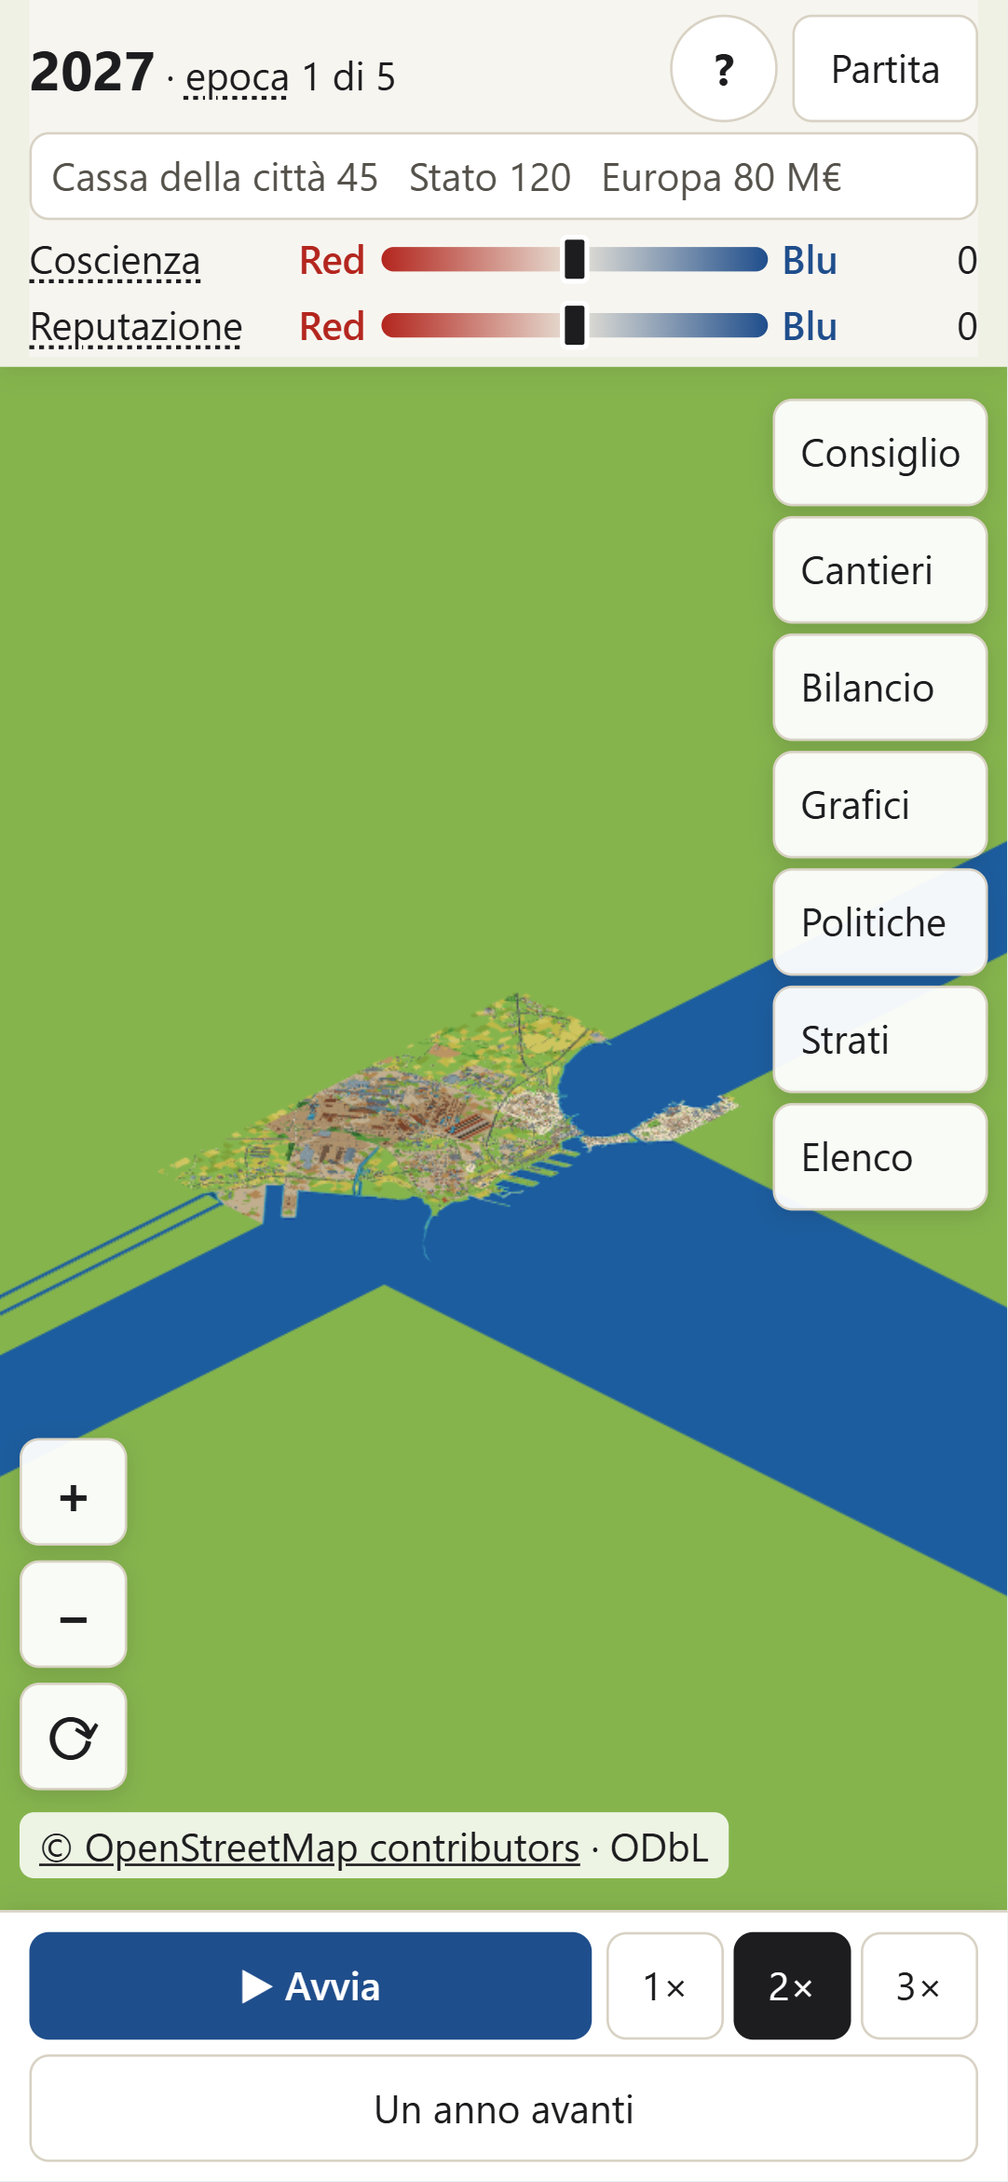
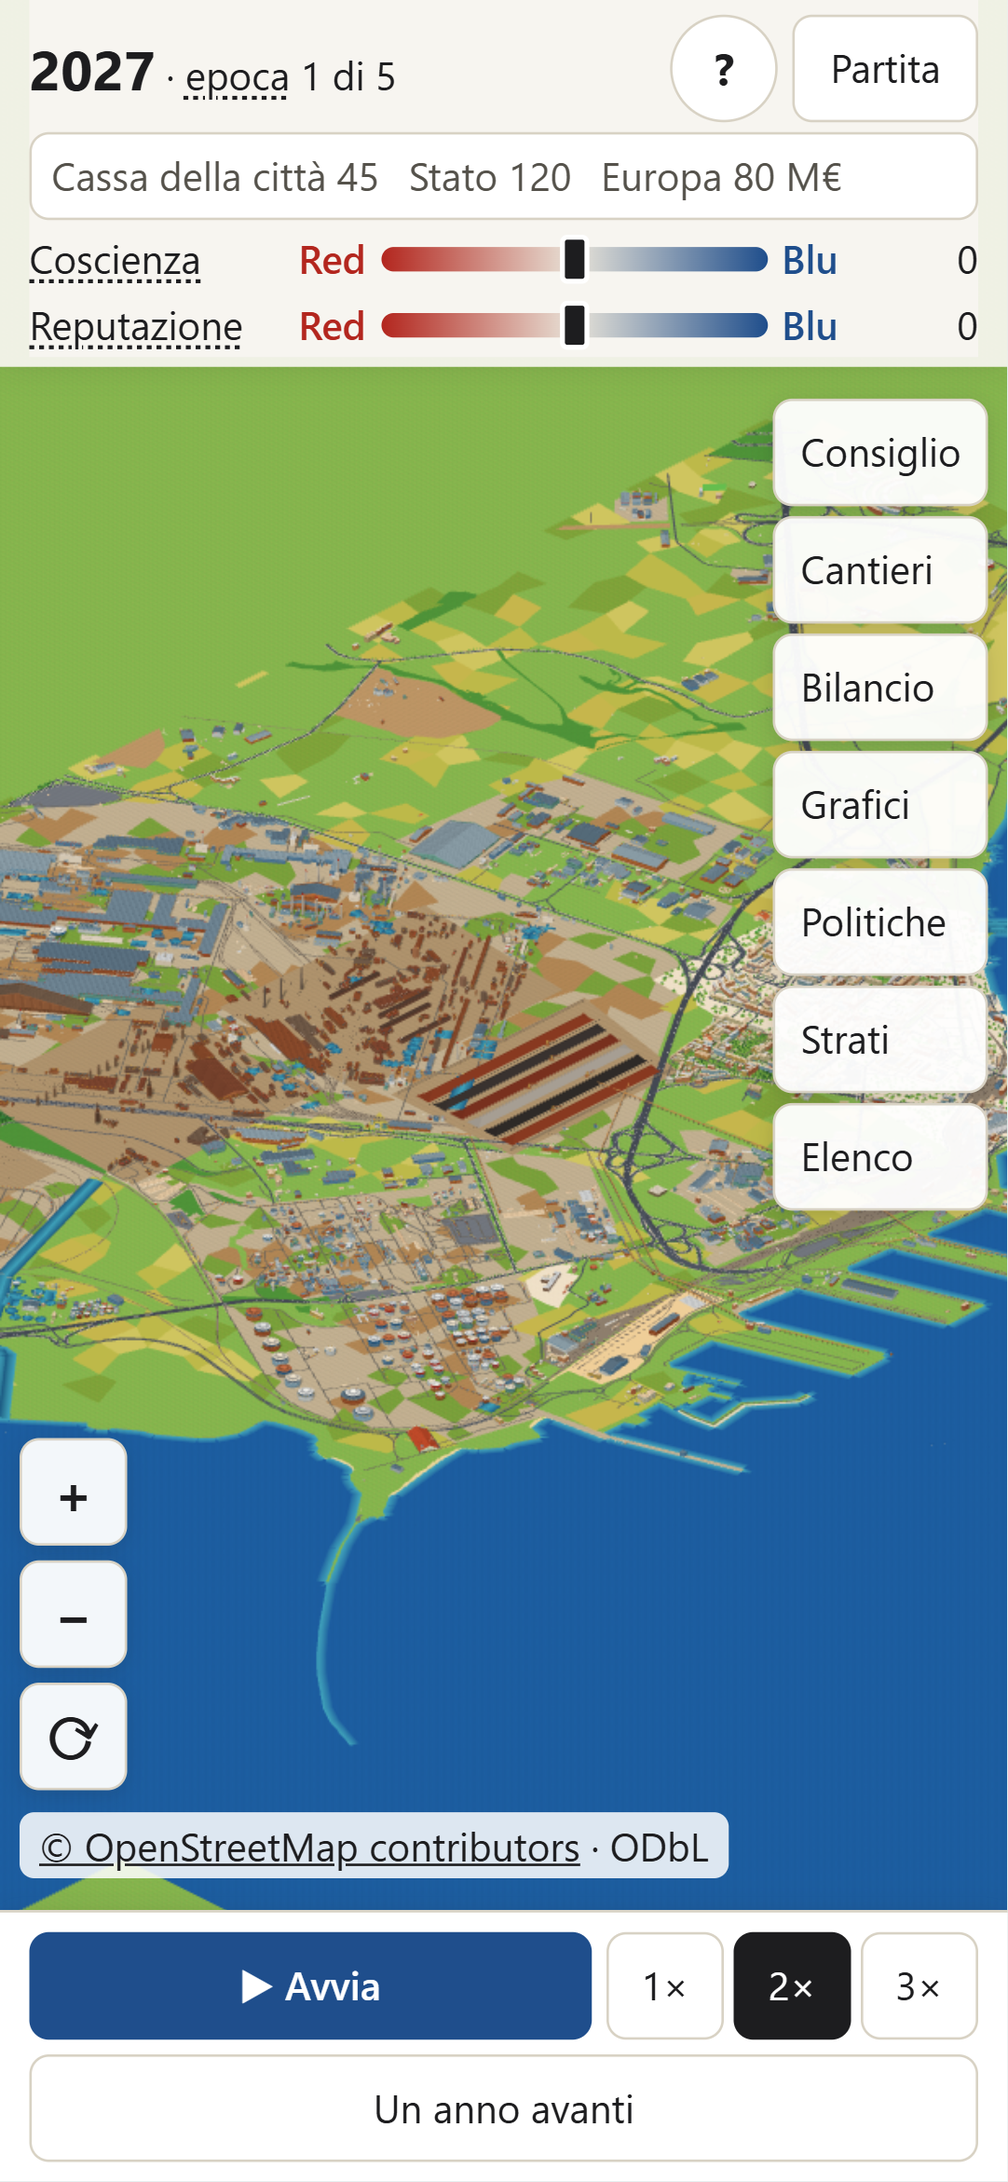
T12e: correzione dopo la revisione, la zona riempie l'area libera sul telefono
Sul telefono in verticale la distanza massima è quella a cui la zona
riempie in larghezza l'area libera e ne copre almeno il 70% (calcolo
geometrico); sugli schermi larghi la zona entra tutta, come prima.
Prove nella vista e nel browser (copertura misurata dal DOM), schermate
del primo invio rinominate t12e-primo-invio-*, nuove t12e-dopo-*.

diff --git a/apps/game/scripts/verifica.ts b/apps/game/scripts/verifica.ts
@@ -38,6 +38,7 @@ import { chromium, type Browser, type Page } from 'playwright-core';
 import { transformWithEsbuild } from 'vite';
 import { BERSAGLIO, RECENTI, SOSTITUITE } from '../src/bersaglio.js';
 import { TAVOLOZZA } from '../src/iso/aspetto.js';
+import { COPERTURA_MINIMA, copertura } from '../src/iso/vista.js';
 
 // VERIFICA_APP permette di misurare un'altra copia del gioco (per esempio una versione precedente, per confronto).
 const appDir = process.env['VERIFICA_APP'] ?? join(dirname(fileURLToPath(import.meta.url)), '..');
@@ -1189,11 +1190,16 @@ async function schermateDistanzaMassima(browser: Browser, prefisso: 'prima' | 'd
   for (const s of SCHERMI_T12E) {
     const { page, close } = await apriSchermo(browser, s);
     for (let o = 0; o < 4; o++) {
-      await page.evaluate((oo) => {
-        const p = window.taranto2127Plastico!;
-        p.imposta(1e-4, oo);
-        p.guarda(0, 0, 1e-4);
-      }, o);
+      await page.evaluate(
+        ([oo, centra]) => {
+          const p = window.taranto2127Plastico!;
+          p.imposta(1e-4, oo);
+          // Il centro della zona al centro dell'area libera (la copia di prima non ha questa sonda).
+          if (centra) p.spingi([0, 0], 0, 0);
+          else p.guarda(0, 0, 1e-4);
+        },
+        [o, prefisso === 'dopo'] as const,
+      );
       await page.waitForTimeout(1200);
       await page.screenshot({ path: join(schermateRamo, `t12e-${prefisso}-distanza-massima-o${o + 1}-${s.nome}.png`) });
     }
@@ -1233,15 +1239,33 @@ async function controlliT12e(browser: Browser): Promise<void> {
       const r = await page.evaluate((oo) => {
         const p = window.taranto2127Plastico!;
         p.imposta(1e-4, oo);
-        p.guarda(0, 0, 1e-4);
+        p.spingi([0, 0], 0, 0);
         return p.areaLibera();
       }, o);
-      const fuori = r.vertici.filter((v) => v.x < r.area.left - tol || v.x > r.area.right + tol || v.y < r.area.top - tol || v.y > r.area.bottom + tol);
-      if (fuori.length > 0) fail(`${s.nome}, orientamento ${o + 1}, distanza massima: ${fuori.length} vertici della zona fuori dall'area libera ${JSON.stringify(r.area)}: ${JSON.stringify(fuori)}`);
-      // Controllo indipendente dal gioco: nessun vertice sotto un comando misurato nel DOM, nessuno fuori dalla tela.
-      const nascosti = r.vertici.filter((v) => !visibileSullaMappa(v, dom));
-      if (nascosti.length > 0) fail(`${s.nome}, orientamento ${o + 1}, distanza massima: ${nascosti.length} vertici della zona sotto un comando o fuori dalla tela: ${JSON.stringify(nascosti)}`);
-      if (o === 0) misura(`${s.nome}: area libera ${Math.round(r.area.left)}-${Math.round(r.area.right)} × ${Math.round(r.area.top)}-${Math.round(r.area.bottom)} px su ${s.width}×${s.height}; distanza massima ${r.ppmMinimo.toFixed(3)} px/m (era 0,3)`);
+      // Area libera misurata dal DOM, non quella del gioco: tela meno i comandi.
+      const libera = {
+        left: Math.max(0, ...dom.comandi.filter((c) => c.x1 - c.x0 < dom.tela.w / 2 && c.x0 < dom.tela.w / 2).map((c) => c.x1)),
+        right: Math.min(dom.tela.w, ...dom.comandi.filter((c) => c.x1 - c.x0 < dom.tela.w / 2 && c.x0 >= dom.tela.w / 2).map((c) => c.x0)),
+        top: Math.max(0, ...dom.comandi.filter((c) => c.x1 - c.x0 >= dom.tela.w / 2 && c.y0 < dom.tela.h / 2).map((c) => c.y1)),
+        bottom: Math.min(dom.tela.h, ...dom.comandi.filter((c) => c.x1 - c.x0 >= dom.tela.w / 2 && c.y0 >= dom.tela.h / 2).map((c) => c.y0)),
+      };
+      const verticale = libera.bottom - libera.top > libera.right - libera.left;
+      if (verticale) {
+        // Telefono in verticale (correzione dopo la revisione): la zona riempie in larghezza e copre almeno il 70% dell'area libera.
+        const xs = r.vertici.map((v) => v.x);
+        const largo = Math.max(...xs) - Math.min(...xs);
+        const quota = copertura(r.vertici.map((v) => [v.x, v.y] as [number, number]), libera);
+        if (largo < libera.right - libera.left - tol) fail(`${s.nome}, orientamento ${o + 1}, distanza massima: la zona non riempie in larghezza l'area libera (${Math.round(largo)} contro ${Math.round(libera.right - libera.left)} px)`);
+        if (quota < COPERTURA_MINIMA) fail(`${s.nome}, orientamento ${o + 1}, distanza massima: solo il ${(quota * 100).toFixed(0)}% dell'area libera è sopra la zona (almeno 70%)`);
+        if (o === 0) misura(`${s.nome}: area libera ${Math.round(libera.left)}-${Math.round(libera.right)} × ${Math.round(libera.top)}-${Math.round(libera.bottom)} px su ${s.width}×${s.height}; distanza massima ${r.ppmMinimo.toFixed(3)} px/m (era 0,3; nel primo invio circa 0,02): la zona è larga ${Math.round(largo)} px e copre il ${(quota * 100).toFixed(0)}% dell'area libera`);
+      } else {
+        // Schermo largo: la zona entra tutta, e nessun vertice sta sotto un comando misurato nel DOM.
+        const fuori = r.vertici.filter((v) => v.x < r.area.left - tol || v.x > r.area.right + tol || v.y < r.area.top - tol || v.y > r.area.bottom + tol);
+        if (fuori.length > 0) fail(`${s.nome}, orientamento ${o + 1}, distanza massima: ${fuori.length} vertici della zona fuori dall'area libera ${JSON.stringify(r.area)}: ${JSON.stringify(fuori)}`);
+        const nascosti = r.vertici.filter((v) => !visibileSullaMappa(v, dom));
+        if (nascosti.length > 0) fail(`${s.nome}, orientamento ${o + 1}, distanza massima: ${nascosti.length} vertici della zona sotto un comando o fuori dalla tela: ${JSON.stringify(nascosti)}`);
+        if (o === 0) misura(`${s.nome}: area libera ${Math.round(libera.left)}-${Math.round(libera.right)} × ${Math.round(libera.top)}-${Math.round(libera.bottom)} px; distanza massima ${r.ppmMinimo.toFixed(3)} px/m: la zona entra tutta`);
+      }
       // Spingendo verso ciascun bordo, il vertice di quel lato si porta nell'area libera.
       for (const ppm of [0.3, 1, 3]) {
         for (const [dx, dy, lato] of [
@@ -1283,7 +1307,7 @@ async function controlliT12e(browser: Browser): Promise<void> {
         }
       }
     }
-    misura(`${s.nome}: alla distanza massima i quattro vertici nell'area libera nei quattro orientamenti; ${spinte} spinte verso i bordi, ogni vertice portato nell'area libera`);
+    misura(`${s.nome}: distanza massima a posto nei quattro orientamenti; ${spinte} spinte verso i bordi, ogni vertice portato nell'area libera`);
     // L'area libera si ricalcola quando una finestra si apre e si chiude.
     const chiusa = (await page.evaluate(() => window.taranto2127Plastico!.areaLibera())).area;
     await openPanel(page, 'elenco');

diff --git a/apps/game/src/iso/vista.ts b/apps/game/src/iso/vista.ts
@@ -12,8 +12,9 @@
  *   portare dentro l'area libera, e non oltre: quando un estremo della zona arriva al bordo
  *   dell'area libera la vista si ferma. Se la zona è più piccola dell'area libera, resta al
  *   centro dell'area libera.
- * - Alla distanza massima l'intera zona entra nell'area libera, in ogni orientamento e a
- *   ogni larghezza (ingrandimento minimo calcolato, non fisso).
+ * - Distanza massima calcolata, non fissa (correzione di T12e decisa da Michele): sul
+ *   telefono in verticale la zona riempie in larghezza l'area libera e almeno il 70%
+ *   dell'area libera cade sopra la zona; sugli schermi larghi la zona entra tutta.
  */
 import * as THREE from 'three';
 import type { Pt } from '../plastico/data.js';
@@ -120,6 +121,98 @@ export function ppmPerTutta(azimut: number, lim: Limiti, area: Area): number {
   return RESPIRO * Math.min(largo / (a1 - a0), alto / ((b1 - b0) * Math.sin(ELEVAZIONE)));
 }
 
+/** Quota dell'area libera che, alla distanza massima sul telefono in verticale, deve cadere sopra la zona. */
+export const COPERTURA_MINIMA = 0.7;
+/** Il calcolo cerca un po' di più, perché la prova non stia sul filo (centraggio e arrotondamenti). */
+const COPERTURA_CERCATA = 0.74;
+
+/** Area di un poligono (formula di Gauss), in valore assoluto. */
+function areaPoligono(p: Pt[]): number {
+  let s = 0;
+  for (let i = 0; i < p.length; i++) {
+    const [x1, y1] = p[i]!;
+    const [x2, y2] = p[(i + 1) % p.length]!;
+    s += x1 * y2 - x2 * y1;
+  }
+  return Math.abs(s) / 2;
+}
+
+/** Ritaglia un poligono convesso con un rettangolo (Sutherland-Hodgman). */
+export function ritaglia(poligono: Pt[], r: Area): Pt[] {
+  let out = poligono;
+  const lati: [(p: Pt) => boolean, (a: Pt, b: Pt) => Pt][] = [
+    [(p) => p[0] >= r.left, (a, b) => [r.left, a[1] + ((b[1] - a[1]) * (r.left - a[0])) / (b[0] - a[0])]],
+    [(p) => p[0] <= r.right, (a, b) => [r.right, a[1] + ((b[1] - a[1]) * (r.right - a[0])) / (b[0] - a[0])]],
+    [(p) => p[1] >= r.top, (a, b) => [a[0] + ((b[0] - a[0]) * (r.top - a[1])) / (b[1] - a[1]), r.top]],
+    [(p) => p[1] <= r.bottom, (a, b) => [a[0] + ((b[0] - a[0]) * (r.bottom - a[1])) / (b[1] - a[1]), r.bottom]],
+  ];
+  for (const [dentro, taglio] of lati) {
+    const prima = out;
+    out = [];
+    for (let i = 0; i < prima.length; i++) {
+      const a = prima[i]!;
+      const b = prima[(i + 1) % prima.length]!;
+      if (dentro(b)) {
+        if (!dentro(a)) out.push(taglio(a, b));
+        out.push(b);
+      } else if (dentro(a)) out.push(taglio(a, b));
+    }
+    if (out.length === 0) return [];
+  }
+  return out;
+}
+
+/** Quota di un rettangolo dello schermo che cade sopra un poligono dello schermo (0-1). */
+export function copertura(poligono: Pt[], r: Area): number {
+  const tot = Math.max(1e-9, (r.right - r.left) * (r.bottom - r.top));
+  return areaPoligono(ritaglia(poligono, r)) / tot;
+}
+
+/** Quota dell'area libera sopra la zona, con il centro della zona al centro dell'area libera. */
+export function coperturaCentrata(ppm: number, azimut: number, lim: Limiti, area: Area): number {
+  const { destra, avanti, a0, a1, b0, b1 } = estremi(azimut, lim);
+  const am = (a0 + a1) / 2;
+  const bm = (b0 + b1) / 2;
+  const mx = (area.left + area.right) / 2;
+  const my = (area.top + area.bottom) / 2;
+  const kv = ppm * Math.sin(ELEVAZIONE);
+  const poligono: Pt[] = [
+    [lim.minX, lim.minY],
+    [lim.maxX, lim.minY],
+    [lim.maxX, lim.maxY],
+    [lim.minX, lim.maxY],
+  ].map(([x, y]) => {
+    const a = x! * destra[0] + y! * destra[1];
+    const b = x! * avanti[0] + y! * avanti[1];
+    return [mx + (a - am) * ppm, my - (b - bm) * kv] as Pt;
+  });
+  return copertura(poligono, area);
+}
+
+/**
+ * Distanza massima (T12e, correzione decisa da Michele). Se l'area libera è più alta che
+ * larga (telefono in verticale): l'ingrandimento più piccolo a cui la zona riempie in
+ * larghezza l'area libera e almeno il 70% dell'area libera cade sopra la zona. Altrimenti
+ * (computer, telefono in orizzontale): quello a cui la zona entra tutta, con il 4% d'aria.
+ */
+export function ppmDistanzaMassima(azimut: number, lim: Limiti, area: Area): number {
+  const largo = area.right - area.left;
+  const alto = area.bottom - area.top;
+  if (alto <= largo) return ppmPerTutta(azimut, lim, area);
+  const { a0, a1 } = estremi(azimut, lim);
+  let basso = largo / (a1 - a0); // la zona riempie in larghezza
+  if (coperturaCentrata(basso, azimut, lim, area) >= COPERTURA_CERCATA) return basso;
+  let altoPpm = basso;
+  while (coperturaCentrata(altoPpm, azimut, lim, area) < COPERTURA_CERCATA && altoPpm < PPM_MAX) altoPpm *= 2;
+  // Ricerca per bisezione: la copertura cresce con l'ingrandimento.
+  for (let i = 0; i < 40; i++) {
+    const m = (basso + altoPpm) / 2;
+    if (coperturaCentrata(m, azimut, lim, area) >= COPERTURA_CERCATA) altoPpm = m;
+    else basso = m;
+  }
+  return altoPpm;
+}
+
 /**
  * Centro ammesso: ogni punto della zona si può portare dentro l'area libera, e la vista si
  * ferma quando un estremo della zona arriva al bordo dell'area libera. Su un asse in cui la
@@ -199,9 +292,9 @@ export class Vista {
     this.dimensioni(this.w, this.h);
   }
 
-  /** Ingrandimento minimo: la zona intera entra nell'area libera (al più PPM_MIN). */
+  /** Ingrandimento minimo (distanza massima): vedi ppmDistanzaMassima; al più PPM_MIN. */
   ppmMinimo(azimut = this.meta.azimut): number {
-    return Math.min(PPM_MIN, ppmPerTutta(azimut, this.limiti, this.libera));
+    return Math.min(PPM_MIN, ppmDistanzaMassima(azimut, this.limiti, this.libera));
   }
 
   private limita(): void {

diff --git a/apps/game/src/iso/vista.test.ts b/apps/game/src/iso/vista.test.ts
@@ -6,7 +6,7 @@
 import * as THREE from 'three';
 import { describe, expect, it } from 'vitest';
 import type { Pt } from '../plastico/data.js';
-import { AZIMUT_BASE, ELEVAZIONE, MARGINE_PX, PPM_MAX, PPM_MIN, Vista, fattore, type Area, type Limiti } from './vista.js';
+import { AZIMUT_BASE, COPERTURA_MINIMA, ELEVAZIONE, MARGINE_PX, PPM_MAX, PPM_MIN, Vista, copertura, coperturaCentrata, fattore, type Area, type Limiti } from './vista.js';
 
 const LIM: Limiti = { minX: -5000, maxX: 5000, minY: -3200, maxY: 3200 };
 const gradi = (r: number) => (r * 180) / Math.PI;
@@ -100,8 +100,8 @@ describe('vista della città isometrica', () => {
   ];
   const dentro = (s: { x: number; y: number }, a: Area, tol = 1e-6) => s.x >= a.left - tol && s.x <= a.right + tol && s.y >= a.top - tol && s.y <= a.bottom + tol;
 
-  it('alla distanza massima la zona intera entra nell\'area libera, a ogni larghezza e in ogni orientamento', () => {
-    for (const sc of SCHERMI) {
+  it('schermi larghi: alla distanza massima la zona intera entra nell\'area libera, in ogni orientamento', () => {
+    for (const sc of SCHERMI.filter((x) => x.area.bottom - x.area.top <= x.area.right - x.area.left)) {
       for (let o = 0; o < 4; o++) {
         const v = new Vista([1234, -567], 1, LIM);
         v.dimensioni(sc.w, sc.h);
@@ -111,10 +111,44 @@ describe('vista della città isometrica', () => {
         v.ingrandisci(1e-6, sc.w / 2, sc.h / 2, true);
         assesta(v);
         expect(v.ora.ppm, sc.nome).toBeCloseTo(v.ppmMinimo(), 9);
-        expect(v.ppmMinimo(), sc.nome).toBeLessThanOrEqual(PPM_MIN);
         for (const p of VERTICI) expect(dentro(v.aSchermo(p), sc.area), `${sc.nome} o${o} vertice ${p.join(',')}`).toBe(true);
       }
     }
+  });
+
+  it('telefono in verticale: alla distanza massima la zona riempie in larghezza e copre almeno il 70% dell\'area libera', () => {
+    const telefoni = SCHERMI.filter((x) => x.area.bottom - x.area.top > x.area.right - x.area.left);
+    expect(telefoni.length).toBe(3);
+    for (const sc of telefoni) {
+      for (let o = 0; o < 4; o++) {
+        const v = new Vista([1234, -567], 1, LIM);
+        v.dimensioni(sc.w, sc.h);
+        v.impostaAreaLibera(sc.area);
+        for (let k = 0; k < o; k++) v.ruota(1);
+        assesta(v);
+        v.ingrandisci(1e-6, sc.w / 2, sc.h / 2, true);
+        assesta(v);
+        const a = v.libera;
+        // Il centro della zona al centro dell'area libera.
+        v.porta([(LIM.minX + LIM.maxX) / 2, (LIM.minY + LIM.maxY) / 2], (a.left + a.right) / 2, (a.top + a.bottom) / 2);
+        const s = VERTICI.map((p) => v.aSchermo(p));
+        const xs = s.map((q) => q.x);
+        const msg = `${sc.nome} o${o}`;
+        expect(Math.max(...xs) - Math.min(...xs), `${msg}: ingombro in larghezza`).toBeGreaterThanOrEqual(a.right - a.left - 1e-6);
+        expect(copertura(s.map((q) => [q.x, q.y] as Pt), a), `${msg}: copertura`).toBeGreaterThanOrEqual(COPERTURA_MINIMA);
+        // Non più vicino del necessario: un po' più lontano la copertura scende sotto quella cercata.
+        expect(coperturaCentrata(v.ora.ppm * 0.9, v.ora.azimut, LIM, a), msg).toBeLessThan(0.74);
+      }
+    }
+  });
+
+  it('la copertura geometrica è giusta su casi noti', () => {
+    const r: Area = { left: 0, top: 0, right: 10, bottom: 10 };
+    expect(copertura([[0, 0], [10, 0], [10, 10], [0, 10]], r)).toBeCloseTo(1, 12);
+    expect(copertura([[-5, -5], [5, -5], [5, 5], [-5, 5]], r)).toBeCloseTo(0.25, 12);
+    expect(copertura([[5, -5], [15, 5], [5, 15], [-5, 5]], r)).toBeCloseTo(1, 12);
+    expect(copertura([[5, 0], [10, 5], [5, 10], [0, 5]], r)).toBeCloseTo(0.5, 12);
+    expect(copertura([[20, 20], [30, 20], [30, 30]], r)).toBe(0);
   });
 
   it("spingendo la vista verso un bordo, il vertice di quel lato entra nell'area libera e la vista non va oltre", () => {

diff --git a/docs/GRAFICA.md b/docs/GRAFICA.md
@@ -50,10 +50,20 @@ comandi sopra la mappa, quindi i bordi della zona restavano sotto i comandi.
   cambio di dimensione e ogni dieci immagini, quindi segue le finestre che si aprono e si
   chiudono e il telefono che ruota. Dentro l'area libera si tiene un margine di 8 pixel
   (`MARGINE_PX`), uguale a ogni ingrandimento.
-- **Distanza massima** (`iso/vista.ts`, `ppmPerTutta`): non più fissa. È l'ingrandimento a
-  cui l'intera zona (che a 45° appare come un rombo) entra nell'area libera, con il 4%
-  d'aria, nei quattro orientamenti; al più 0,3 pixel per metro come prima. Misurata:
-  0,017 px/m a 360 px, 0,020 a 390, 0,022 sul telefono lungo 1080×2340, 0,098 a 1280.
+- **Distanza massima** (`iso/vista.ts`, `ppmDistanzaMassima`), non più fissa, con la
+  correzione decisa da Michele dopo la revisione del primo invio (`9f95381`, in cui sul
+  telefono la zona entrava tutta ma diventava un rombo minuscolo in mezzo a un prato finto):
+  - **area libera più alta che larga** (telefono in verticale): l'ingrandimento più piccolo
+    a cui la zona riempie in larghezza l'area libera e almeno il 70% dell'area libera cade
+    sopra la zona, con il centro della zona al centro dell'area libera (il calcolo cerca il
+    74%, per non stare sul filo). La copertura è geometrica: il quadrilatero della zona sullo
+    schermo ritagliato con il rettangolo libero. I lati che restano fuori si raggiungono
+    trascinando. Misurata: 0,085 px/m a 360 px, 0,099 a 390, 0,108 sul telefono lungo
+    1080×2340 (nel primo invio circa 0,02), zona larga 924-1177 px su un'area libera di
+    212-264 px, copertura 72%;
+  - **area libera più larga che alta** (computer, telefono in orizzontale): l'ingrandimento a
+    cui la zona entra tutta, con il 4% d'aria, come nel primo invio (0,098 px/m a 1280 px).
+  - Al più 0,3 pixel per metro, come in T12.
 - **Limite dello spostamento** (`limitaCentro`): calcolato sugli assi dello schermo e
   sull'area libera. Ogni estremo della zona può arrivare al bordo dell'area libera, e lì la
   vista si ferma; su un asse in cui la zona è più piccola dell'area libera, la zona resta al
@@ -64,16 +74,21 @@ comandi sopra la mappa, quindi i bordi della zona restavano sotto i comandi.
   quanto serve perché nulla resti dietro di lei o oltre il piano di fondo: gli angoli dello
   schermo non mostrano mai lo sfondo, anche alla distanza massima.
 
-**Prove.** In `vista.test.ts`: alla distanza massima i quattro vertici nell'area libera (cinque
-schermi, quattro orientamenti); spingendo verso ciascun bordo il vertice di quel lato entra
+**Prove.** In `vista.test.ts`: sugli schermi larghi alla distanza massima i quattro vertici
+nell'area libera; sul telefono in verticale la zona riempie in larghezza e copre almeno il 70%
+(tre telefoni, quattro orientamenti); la copertura geometrica su casi noti; spingendo verso ciascun bordo il vertice di quel lato entra
 nell'area libera e la vista si ferma; arresto esatto al bordo efficace; un'area libera
 assurda non blocca la vista. Nel browser (`scripts/verifica.ts --t12e`, anche nella verifica
 completa): a 360, 390, 1280 px e 1080×2340 (412×892 a densità 2,625), nei quattro
 orientamenti, i vertici alla distanza massima e dopo 48 spinte per schermo stanno nell'area
 libera e, con un controllo indipendente dal gioco, sotto nessun comando misurato nel DOM;
-l'area libera segue la finestra «Elenco»; angoli dello schermo anche a 1e-4 px/m.
-Schermate prima e dopo alla distanza massima: `docs/schermate/t12e-prima-*` (da `main`,
-`9694485`) e `t12e-dopo-*`, quattro orientamenti, quattro schermi.
+l'area libera segue la finestra «Elenco»; angoli dello schermo anche a 1e-4 px/m. Sul
+telefono in verticale, alla distanza massima, la prova misura dal DOM l'area libera e
+controlla che la zona la riempia in larghezza e ne copra almeno il 70%; a 1280 px che la
+zona entri tutta.
+Schermate alla distanza massima, quattro orientamenti, quattro schermi:
+`docs/schermate/t12e-prima-*` (T12, da `main` `9694485`), `t12e-primo-invio-*` (primo invio,
+prima della correzione) e `t12e-dopo-*` (dopo la correzione).
 
 ## Compatibilità e avvio (T12d): mai più pagina bianca
 
